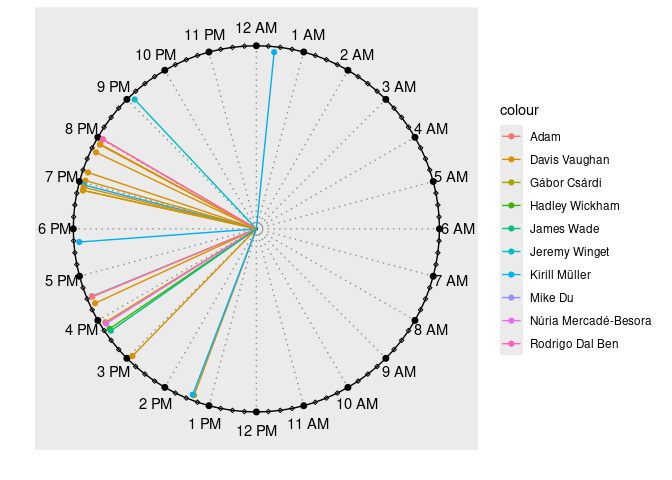
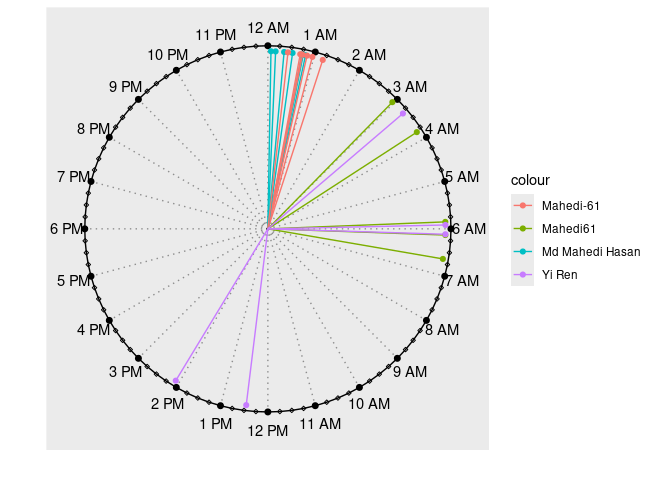
add sep and plot

diff --git a/README.md b/README.md
@@ -36,16 +36,33 @@ ecosystem.
 ``` r
 library(getcommit)
 comm <- get_commits("tidyverse/dplyr", n = 30, from = "2024-05-15", to = "2025-09-02")
-head(comm[-1])
-#> # A tibble: 6 × 3
-#>   author         date                message                                   
-#>   <chr>          <dttm>              <chr>                                     
-#> 1 Davis Vaughan  2025-07-25 13:22:14 Use finalized `format-suggest.yaml`       
-#> 2 Davis Vaughan  2025-07-23 20:01:50 Switch to updated `format-suggest.yaml`   
-#> 3 Davis Vaughan  2025-07-23 19:54:08 Add current `format-suggest.yaml` workflow
-#> 4 Davis Vaughan  2025-07-23 19:53:14 Format with Air 0.7.0                     
-#> 5 Hadley Wickham 2025-05-30 15:43:14 Add kapa ai to navbar (#7684)             
-#> 6 Davis Vaughan  2025-03-03 19:42:02 `use_air()`
+head(comm)
+#> # A tibble: 6 × 4
+#>   author         date                message                               sha  
+#>   <chr>          <dttm>              <chr>                                 <chr>
+#> 1 Davis Vaughan  2025-07-25 13:22:14 Use finalized `format-suggest.yaml`   384f…
+#> 2 Davis Vaughan  2025-07-23 20:01:50 Switch to updated `format-suggest.ya… 4298…
+#> 3 Davis Vaughan  2025-07-23 19:54:08 Add current `format-suggest.yaml` wo… 82d3…
+#> 4 Davis Vaughan  2025-07-23 19:53:14 Format with Air 0.7.0                 bc9a…
+#> 5 Hadley Wickham 2025-05-30 15:43:14 Add kapa ai to navbar (#7684)         be3e…
+#> 6 Davis Vaughan  2025-03-03 19:42:02 `use_air()`                           2d87…
+```
+
+## Commits by Mahedi Bhai
+
+``` r
+library(getcommit)
+comm <- get_commits("Mahedi-61/Mahedi-61.github.io", n = 25, from = "2021-01-11", to = "2025-09-02")
+head(comm)
+#> # A tibble: 6 × 4
+#>   author          date                message                     sha           
+#>   <chr>           <dttm>              <chr>                       <chr>         
+#> 1 Mahedi61        2024-12-02 03:48:58 pub link update             c93b332a308c6…
+#> 2 Mahedi61        2024-11-29 06:08:29 updating resume             3044c2483eccd…
+#> 3 Mahedi61        2024-11-20 06:39:46 update at Nov 20, 2024 last b103bf803aa54…
+#> 4 Mahedi61        2024-11-20 05:51:48 update at Nov 20, 2024      5e2e18f14a526…
+#> 5 Mahedi61        2024-11-20 02:58:03 after CVPR'25 submission    05ce3be7d5907…
+#> 6 Md Mahedi Hasan 2024-01-05 00:21:11 Update pub.md               c03c75ae01a7b…
 ```
 
 ## Viewing the commits on the clockplot
@@ -70,9 +87,6 @@ clock_chart_qlt(
   time = hms,
   crit = author
 )
-#> Warning in clock_chart_qlt(comm, time = hms, crit = author): No. of categories
-#> is more than 5 and may not be distinguished well. Try clock_chart() function
-#> instead?
 ```
 
 <img src="man/figures/README-plot_list-1.png" width="100%" />
